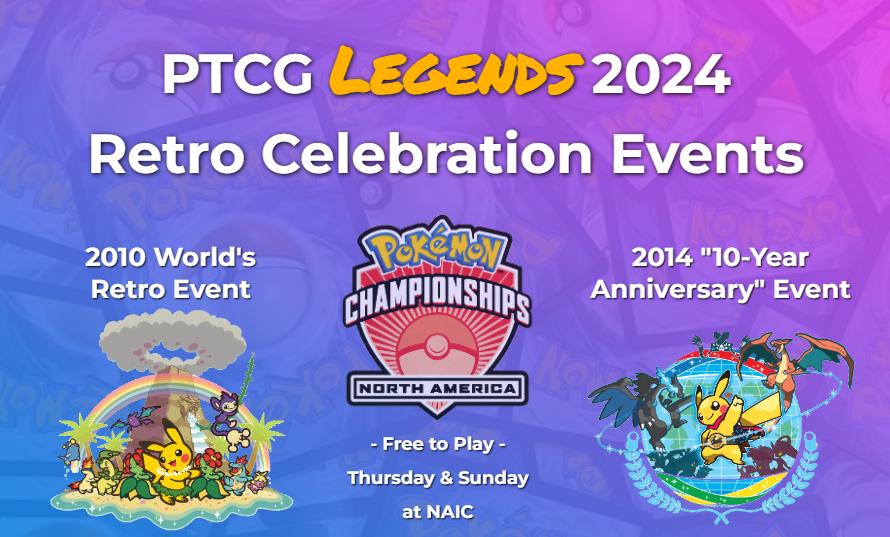
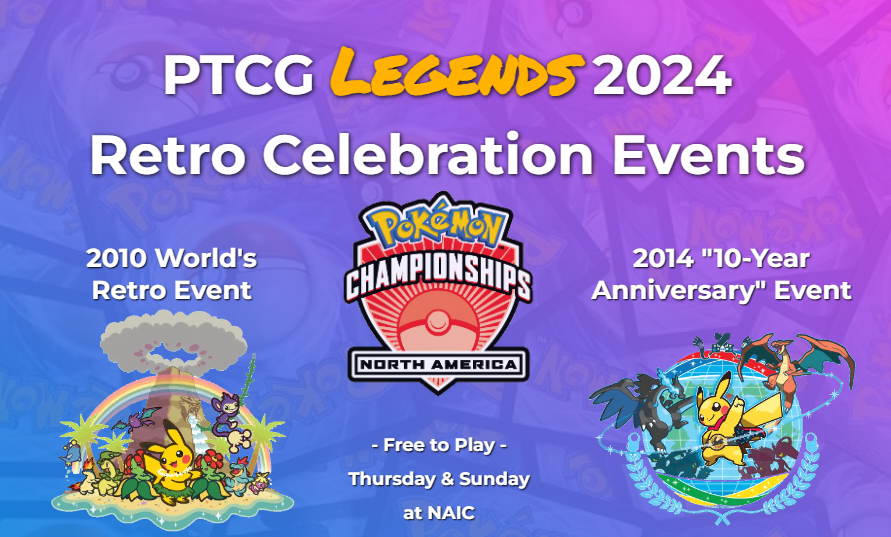
deckbuilder

diff --git a/articles/other/2024-retro-celebration.html b/articles/other/2024-retro-celebration.html
@@ -232,7 +232,7 @@
                 <h3 id='twentyfourteen'>2014 "10-Year Anniversary" Event</h3>
                 <br>
                 <p style='margin-top: -12px;'>It's been ten-years since the World Championships was held in Washington D.C. for the first time! There, first-year Master and Canadian, Andrew Estrada, piloted one of the strongest decks in history, Virizion Genesect, in an insane victory against previous World Champion, Igor Costa, in one of the most thrilling mirror matches in history!</p>
-                <img class='article-content-image' src='https://www.pokemon.com/static-assets/content-assets/cms2/img/attend-events/championship/2014_worlds/2014-worlds-banner.jpg' style='border: 15px solid white;'>
+                <img class='article-content-image' src='https://www.pokemon.com/static-assets/content-assets/cms2/img/attend-events/championship/2014_worlds/2014-worlds-banner.jpg' style='border: 7px solid white;'>
                 <p><strong>When:</strong> Sunday, June 9</p>
                 <p><strong>Time:</strong> 11am (may change)</p>
                 <p><strong>Where:</strong> New Orleans Convention Center</p>
@@ -268,16 +268,16 @@
                 </div>
                 <p><i>Alex is the creator of PTCG Legends, a two-time Regional Champion, known for his love of playing retro decks, and overall enthusiast of everything Pokémon. He first got into Pokémon while in Kindergarten, with the introduction of Pokémon Silver for the Gameboy Color. Though he collected Pokémon cards for most of his life, he didn't learn about Pokémon tournaments until 2011, in which he attended his first prerelease and has been playing ever since.</i></p>
             </div> -->
-
+            <img class='article-content-image' src='../../assets/article-thumbnails/2024-retro-celebration.png'>
             <!-- <div style="display: flex;justify-content: center;align-items: center;">
                 <img src='../../../../../Pictures/5157Wp4GMCL._AC_UF894,1000_QL80_DpWeblab_.jpg' style='position: relative;'>
                 <div style="background-image: linear-gradient(to top right, rgb(17, 137, 229), rgb(237, 66, 237));width: 900px;height:550px;position: absolute;opacity: 0.9;"></div>
-                <div style='width: 900px;height:550px;position: absolute;color:white;text-shadow: 1px 1px 5px black;font-size: 55px;font-weight: bolder;text-align: center;line-height: 80px;margin-top: 70px;'>PTCG <span class='legendsr' style='font-size: 64px;text-shadow: 1px 1px 5px black;color:rgb(255, 179, 0);'>Legends</span> 2024<br> Retro Celebration Events</div>
-                <img src='../../../../../Downloads/2010.png' style='width:250px;height:auto;position: absolute;margin: 80px 0 0 -550px;'>
-                <img src='../../../../../Downloads/2014.png' style='width:273px;height:auto;position: absolute;margin: 100px 0 0 550px;'>
-                <h5 style='color:white;text-shadow: 1px 1px 2px black;position: absolute;margin: -220px 0 0 -550px;font-size:26px;text-align: center;'>2010 World's<br> Retro Event</h5>
-                <h5 style='color:white;text-shadow: 1px 1px 2px black;position: absolute;margin: -210px 0 0 550px;font-size:26px;text-align: center;'>2014 "10-Year<br> Anniversary" Event</h5>
-                <img src='../../assets/nats-logos/naic-logo.png' style='position: absolute;opacity: 0.75;width: 210px;height:auto;margin-left: -15px;'>
+                <div style='width: 900px;height:550px;position: absolute;color:white;text-shadow: 1px 1px 5px black;font-size: 55px;font-weight: bolder;text-align: center;line-height: 80px;margin-top: 50px;'>PTCG <span class='legendsr' style='font-size: 64px;text-shadow: 1px 1px 5px black;color:rgb(255, 179, 0);'>Legends</span> 2024<br> Retro Celebration Events</div>
+                <img src='../../../../../Downloads/2010.png' style='width:250px;height:auto;position: absolute;margin: 250px 0 0 -550px;'>
+                <img src='../../../../../Downloads/2014.png' style='width:273px;height:auto;position: absolute;margin: 270px 0 0 550px;'>
+                <h5 style='color:white;text-shadow: 1px 1px 2px black;position: absolute;margin: -40px 0 0 -550px;font-size:26px;text-align: center;'>2010 World's<br> Retro Event</h5>
+                <h5 style='color:white;text-shadow: 1px 1px 2px black;position: absolute;margin: -40px 0 0 550px;font-size:26px;text-align: center;'>2014 "10-Year<br> Anniversary" Event</h5>
+                <img src='../../assets/nats-logos/naic-logo.png' style='position: absolute;opacity: 0.9;width: 210px;height:auto;margin-left: -15px;margin-top: 50px;'>
                 <p style='color:white;text-shadow: 1px 1px 2px black;position: absolute;font-weight:bolder;margin: 420px 0 0 -15px;font-size:18px;text-align: center;line-height: 34px;'>- Free to Play -<br>Thursday & Sunday<br> at NAIC</p>
             </div> -->
 
